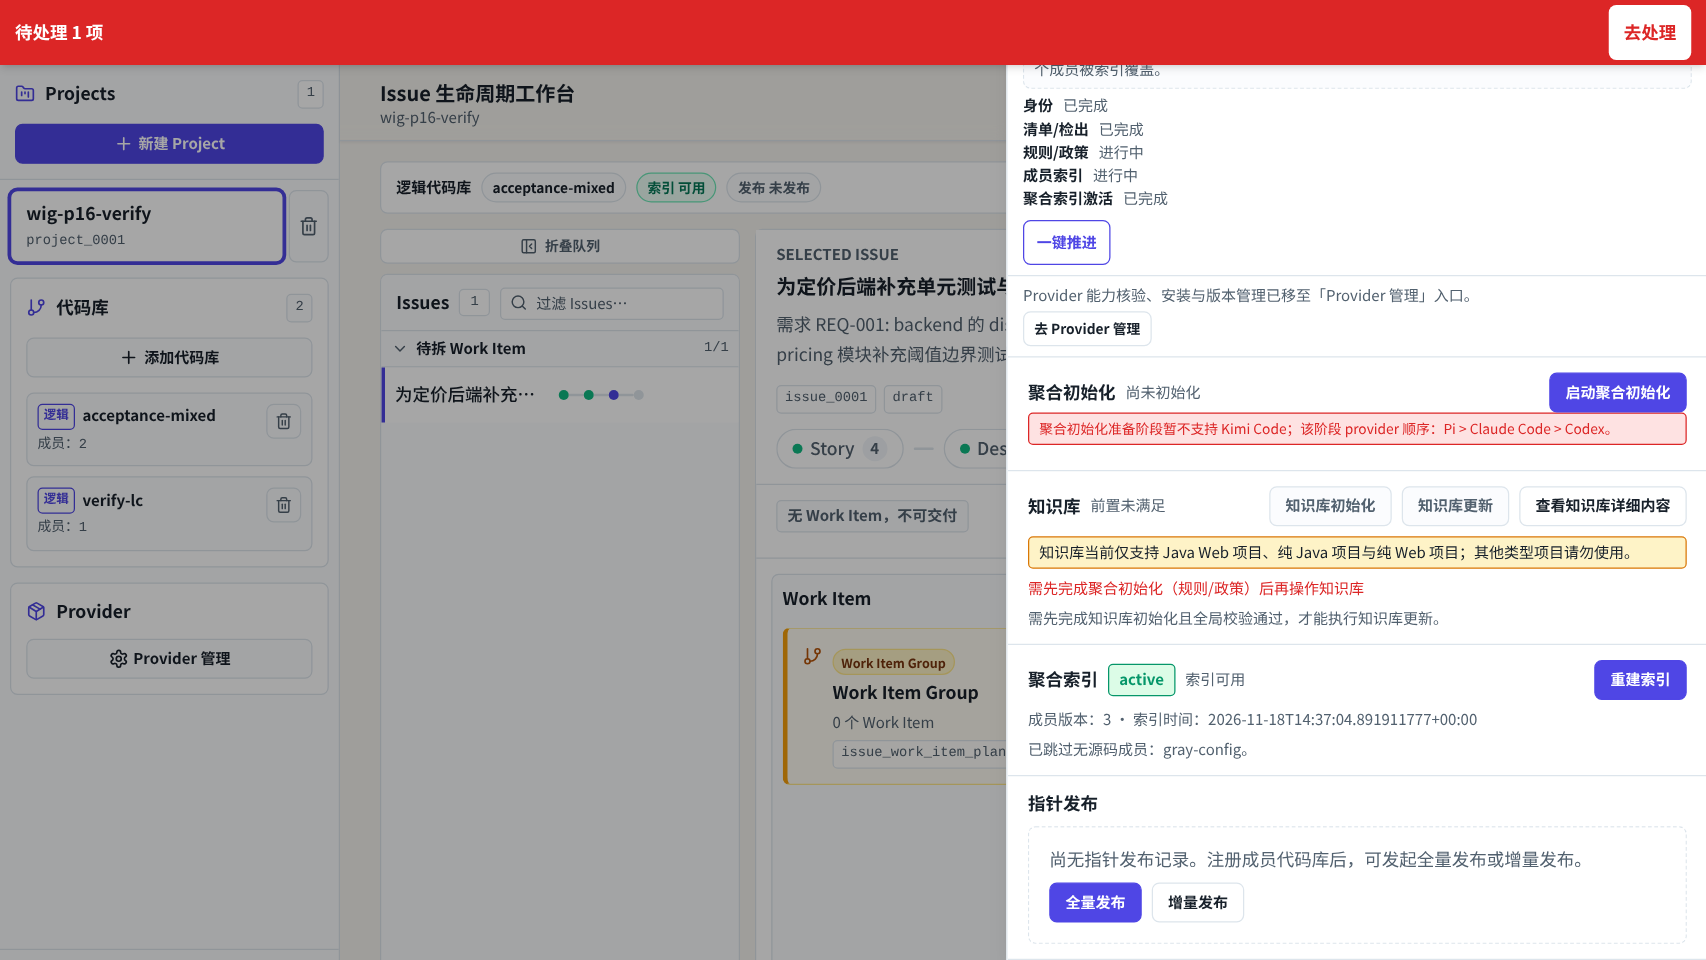
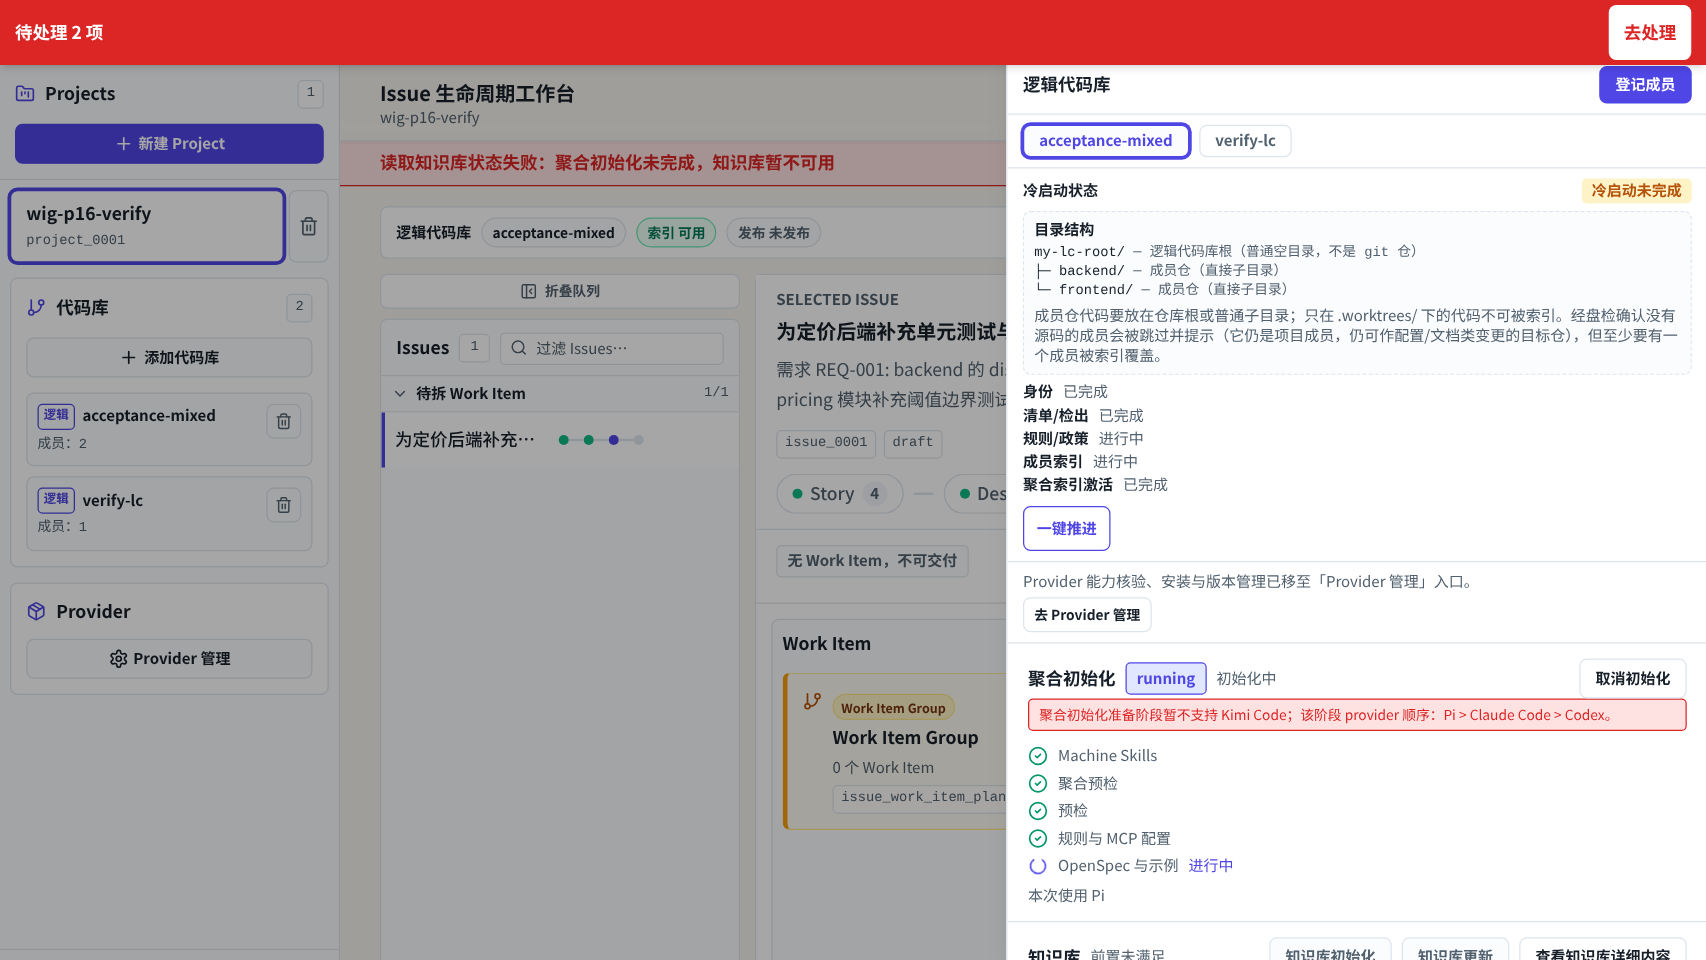
docs(验收): 在最终构建上重验页面证据（私有 target 目录 + 重建后新索引时间）

diff --git a/cadence/reports/2026-11-18_验收_聚合索引跳过无源码成员_页面证据_v1.0.md b/cadence/reports/2026-11-18_验收_聚合索引跳过无源码成员_页面证据_v1.0.md
@@ -6,13 +6,17 @@
 
 | 项 | 值 |
 |---|---|
-| 后端 | 4317 发布态实例（`/tmp/deploy-target/release/aria`，本轮新编译；`web/dist` 同轮重建后内嵌） |
+| 后端 | 4317 发布态实例（**私有 target 目录** `/tmp/aria-mine-target/release/aria`＝本分支最终构建；`web/dist` 同轮重建后内嵌） |
 | 前端 | 同一实例内嵌的 `web/dist`（= 本轮 `pnpm -C web build` 产物） |
 | codegraph | 1.6.3（实测 `codegraph --version`） |
 | 浏览器 | harness 内置浏览器（`app: "own"`，未触碰用户 Chrome；**未使用 Playwright**） |
 | 部署自检 | `start.sh --check` 六项全通过（端口/全站 200/日志自证/可信 origin/跑的是新件/指纹新件命中且回滚件 0） |
 
 > 说明：本机 5173 上运行的是**另一个 worktree**（`feat-wig-optimize-11-08`）的 vite dev server，不是本轮源码，故本次页面验收走 **4317 发布态**；dist 与二进制均已按本轮重建，指纹（`member-index-note`、`aggregate-index-source-less-alert`、`aggregate-index-failure-title`、`已跳过无源码成员`、`未纳入代码搜索`）在新件命中、在回滚件为 0。
+>
+> **二进制来源更正**：`/tmp/deploy-target` 是**多会话共享的 target 目录**——另一条会话在 2026-11-19 00:40–00:49 重编译时覆盖了本分支的二进制（指纹命中归零、`not_searched`/`source_less_alert` 全无），导致一度有实例在跑**不含本 PR 改动**的构建。处置：改用**私有 target 目录** `/tmp/aria-mine-target` 重新编译本分支并以 `ARIA_BIN` 指向它；指纹复核为「已跳过无源码成员=2 / 未纳入代码搜索=1 / source_less_alert=2，回滚件全 0」。
+>
+> **本报告的截图与结论已在最终构建上重验**：首轮截图用的是 22:31 的构建（早于 clippy 清理与终审修复 F1–F4）；最终构建上重新点了「重建索引」（HTTP 200，索引时间刷新为 `17:05:03`、状态仍 `active`、仍点名跳过 `gray-config`）并重截两张图，选仓标注与「仍可勾选」一并复核。
 
 ## 夹具（真实 git 仓，落在 `/tmp`）
 
